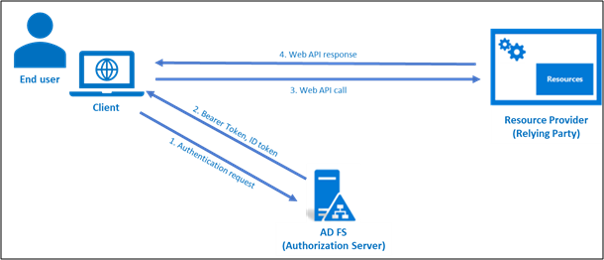
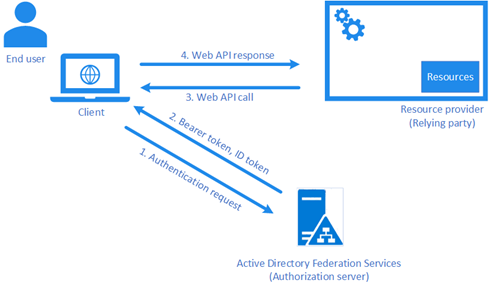
Windows Server freshness - User Story 90515.

Changed region(s): [[0.0, 0.0, 1.0, 1.0]]

diff --git a/WindowsServerDocs/identity/ad-fs/development/ad-fs-openid-connect-oauth-concepts.md b/WindowsServerDocs/identity/ad-fs/development/ad-fs-openid-connect-oauth-concepts.md
@@ -1,30 +1,30 @@
 ---
-title: AD FS OpenID Connect/OAuth Concepts
-description: Learn about AD FS modern authentication concepts.
+title: AD FS OpenID Connect/OAuth concepts
+description: Learn about Active Directory Federation Services modern authentication concepts.
 author: billmath
 ms.author: billmath
 manager: amycolannino
-ms.date: 05/23/2023
+ms.date: 05/24/2023
 ms.topic: article
 ms.custom: inhenkel
 ---
 
 # AD FS OpenID Connect/OAuth concepts
 
->Applies to AD FS 2016 and later
+>Applies to Active Directory Federation Services (AD FS) 2016 and later
 
 ## Modern authentication actors
 
 | Actor | Description |
 |-----|-----|
-| End User | The security principal (users, applications, services, and groups) who access the resource. |
+| End user | The security principal (users, applications, services, and groups) who access the resource. |
 | Client | Your web application, identified by its client ID. The client is usually the party that the end user interacts with, and the client requests tokens from the authorization server. |
-| Authorization Server/Identity Provider (IdP)| Your AD FS server. It's responsible for verifying the identity of security principals that exist in an organization's directory. It issues security tokens (bearer access token, ID token, and refresh token) upon successful authentication of those security principals. |
-| Resource Server/Resource Provider/Relying Party| Where the resource or data resides. It trusts the Authorization Server to securely authenticate and authorize the client and uses bearer access tokens to ensure that access to a resource can be granted. |
+| Authorization server/Identity provider (IdP)| Your AD FS server. It's responsible for verifying the identity of security principals that exist in an organization's directory. It issues security tokens (bearer access token, ID token, and refresh token) upon successful authentication of those security principals. |
+| Resource server/Resource provider/Relying party| Where the resource or data resides. It trusts the authorization server to securely authenticate and authorize the client and uses bearer access tokens to ensure that access to a resource can be granted. |
 
 The following diagram provides the most basic relationship between the actors:
 
-![Diagram of the Modern Authentication actors.](media/adfs-modern-auth-concepts/concept1.png)
+:::image type="content" source="media/adfs-modern-auth-concepts/concept1.png" alt-text="Diagram of the modern authentication actors." lightbox="media/adfs-modern-auth-concepts/concept1.png":::
 
 ## Application types
 
@@ -36,7 +36,7 @@ The following diagram provides the most basic relationship between the actors:
 
 ## Application group
 
-Every OAuth client (native or web app) or resource (web API) configured with AD FS needs to be associated with an application group. You can configure the clients in an application group to access the resources in the same group. An application group can have multiple clients and resources.
+You associate an application group with every native or web app OAuth client or web API resource that's configured with AD FS. Configure the clients in an application group to access the resources in the same group. An application group can have multiple clients and resources.
 
 ## Security tokens
 
@@ -49,14 +49,14 @@ Modern authentication uses following token types:
 ## Refresh token lifetimes
 
 - **Simple logon, no KMSI, device _not_ registered**: AD FS applies `SsoLifetime` and `DeviceUsageWindowInDays`. The first refresh token has `lifetime=DeviceUsageWindowInDays` or `SsoLifetime`, based on which field is lower but _no_ further refresh tokens are issued.
-- **KMSI logon, `EnableKmsi=true` in AD FS conf and `kmsi=true` passed as parameter**: AD FS applies `KmsiLifetimeMins` with `DeviceUsageWindowInDays`. The first refresh token has `lifetime=DeviceUsageWindowInDays` and each subsequent `grant_type=refresh_token` request gets a new refresh token. This process happens only with native clients or confidential client plus device auth.
-- **Registered devices, device auth**: AD FS uses `PersistentSsoLifetimeMins` and `DeviceUsageWindowInDays` similar to KMSI. Both native and confidential clients should get new refresh tokens, based on device auth.
+- **KMSI logon, `EnableKmsi=true` in AD FS conf and `kmsi=true` passed as parameter**: AD FS applies `KmsiLifetimeMins` with `DeviceUsageWindowInDays`. The first refresh token has `lifetime=DeviceUsageWindowInDays` and each subsequent `grant_type=refresh_token` request gets a new refresh token. This process happens only with native clients or confidential client plus device authentication.
+- **Registered devices, device auth**: AD FS uses `PersistentSsoLifetimeMins` and `DeviceUsageWindowInDays` similar to KMSI. Both native and confidential clients should get new refresh tokens, based on device authentication.
 
-To learn more, see [AD FS single sign on documentation](../operations/ad-fs-single-sign-on-settings.md).
+To learn more, see [AD FS single sign-on documentation](../operations/ad-fs-single-sign-on-settings.md).
 
 ## Scopes
 
-When you register a resource in AD FS, you can configure scopes to let AD FS perform specific actions. Along with configuring the scope, you must send the scope value in the request for AD FS to perform the action. For example, an administrator configures the scope as `openid` during resource registration and the application (client) must send the `scope = openid` in the auth request for AD FS to issue the ID Token. Following are details on the available scopes in AD FS:
+When you register a resource in AD FS, you can configure scopes to let AD FS perform specific actions. Along with configuring the scope, you must send the scope value in the request for AD FS to perform the action. For example, an administrator configures the scope as `openid` during resource registration and the application (client) must send the `scope = openid` in the authentication request for AD FS to issue the ID Token. Following are details on the available scopes in AD FS:
 
 - `aza` - If using [OAuth 2.0 protocol extensions for broker clients](/openspecs/windows_protocols/ms-oapxbc/2f7d8875-0383-4058-956d-2fb216b44706) and if the scope parameter contains the scope `aza`, the server issues a new primary refresh token. It sets the token in the `refresh_token` field of the response and sets the `refresh_token_expires_in field` to the lifetime of the new primary refresh token if one is enforced.
 - `openid` - Lets the application request use of the `openid` connect authentication protocol.
@@ -80,35 +80,39 @@ The claims present in any given security token are dependent upon the type of to
 
 ## High-level AD FS authentication flow
 
-![AD FS Authentication Flow](media/adfs-modern-auth-concepts/adfsauthflow.png)
+A diagram of the high-level flow follows.
 
-1. AD FS receives auth request from the client.
+:::image type="content" source="media/adfs-modern-auth-concepts/adfsauthflow.png" alt-text="Diagram of the AD FS authentication flow." lightbox="media/adfs-modern-auth-concepts/adfsauthflow.png":::
 
-1. AD FS validates the client ID in the auth request with the client ID obtained during client and resource registration in AD FS. If using confidential client, then AD FS also validates the client secret provided in the auth request. AD FS also validates the redirect URI of the Client.
+1. AD FS receives authentication request from the client.
 
-1. AD FS identifies the resource that the client wants to access through the resource parameter passed in the auth request. If using MSAL client library, then resource parameter isn't sent. Instead the resource url is sent as a part of the scope parameter: *scope = [resource url]/[scope values, for example, openid]*.
+1. AD FS validates the client ID in the authentication request with the client ID obtained during client and resource registration in AD FS. If using confidential client, then AD FS also validates the client secret provided in the authentication request. AD FS also validates the redirect URI of the Client.
 
-    If resource isn't passed using resource or scope parameter, AD FS uses a default resource urn:microsoft:userinfo whose policies (such as MFA, issuance, or authorization policy) can't be configured.
+1. AD FS identifies the resource that the client wants to access through the resource parameter that's passed in the authentication request. If you use the MSAL client library, the resource parameter isn't sent. Instead, the resource URL is sent as a part of the scope parameter: *scope = [resource url]/[scope values, for example, openid]*.
 
-1. Next AD FS validates whether client has the permissions to access the resource. AD FS also validates whether the scopes passed in the auth request match the scopes configured while registering the resource. If the client doesn't have the permissions, or the right scopes aren't sent in the auth request, the auth flow is terminated.
+    If the resource isn't passed using the resource or scope parameters, AD FS uses a default resource `urn:microsoft:userinfo` whose policies, such as, MFA, issuance, or authorization policy, can't be configured.
 
-1. Once permissions and scopes are validated, AD FS authenticates the user using the configured [authentication method](../operations/configure-authentication-policies.md).
+1. Next AD FS validates whether the client has permissions to access the resource. AD FS also validates whether the scopes passed in the authentication request match the scopes configured while registering the resource. If the client doesn't have the permissions, or the right scopes aren't sent in the authentication request, the authentication flow terminates.
 
-1. If [another authentication method](../operations/configure-additional-authentication-methods-for-ad-fs.md) is required as per the resource policy or the global auth policy, AD FS triggers the extra authentication.
+1. Once permissions and scopes validate, AD FS authenticates the user by using the configured [authentication method](../operations/configure-authentication-policies.md).
 
-1. AD FS uses [Azure AD Multi-Factor Authentication](../operations/configure-ad-fs-and-azure-mfa.md) or [third-party MFA](../operations/additional-authentication-methods-ad-fs.md) to perform authentication.
+1. If [another authentication method](../operations/configure-additional-authentication-methods-for-ad-fs.md) is required as per the resource policy or the global authentication policy, AD FS triggers the extra authentication.
+
+1. AD FS uses [Azure AD Multi-Factor Authentication](../operations/configure-ad-fs-and-azure-mfa.md) or [third-party MFA](../operations/additional-authentication-methods-ad-fs.md) to do the authentication.
 
 1. Once the user is authenticated, AD FS applies the [claim rules](../deployment/configuring-claim-rules.md). Claim rules determine the claims sent to the resource as a part of the security tokens. AD FS also applies the [access control polices](../operations/ad-fs-client-access-policies.md) that confirm the user meets the required conditions to access the resource.
 
-1. Next, AD FS generates the access and refreshes Tokens. AD FS also generates the ID token.
+1. Next, AD FS generates the access and refreshes the tokens. AD FS also generates the ID token.
 
-1. If you include the `scope = allatclaims` in the auth request, it customizes the [ID token](custom-id-tokens-in-ad-fs.md) to include claims in the access token based on the defined claim rules.
+1. AD FS receives the authentication request.
 
-1. Once the required tokens are generated and customized, AD FS responds to the client including the tokens. Only if the auth request includes `scope = openid`, the ID token is included in the response. The client can always get the ID token after authentication using the token endpoint.
+1. If you include the `scope = allatclaims` in the authentication request, it customizes the [ID token](custom-id-tokens-in-ad-fs.md) to include claims in the access token based on the defined claim rules.
+
+1. Once the required tokens are generated and customized, AD FS responds to the client and includes the tokens. The ID token is only included in the responsenly if the authentication request includes `scope = openid`. The client can always get the ID token after authentication by using the token endpoint.
 
 ## Types of libraries
 
-Two types of libraries are used with AD FS:
+Use two types of libraries with AD FS:
 
 - **Client libraries**: Native clients and server apps use client libraries to get access tokens for calling a resource such as a web API. Microsoft Authentication Library (MSAL) is the latest and recommended client library when using AD FS 2019.
 
@@ -116,7 +120,7 @@ Two types of libraries are used with AD FS:
 
 ## Customize ID token (extra claims in ID token)
 
-In certain scenarios, it's possible that the web app (client) needs extra claims in an ID token to help in the functionality. Set up extra claims in an ID token by using one of the following options:
+In certain scenarios, it's possible that the web app, the client, needs extra claims in an ID token to help in the functionality. Set up extra claims in an ID token by using one of the following options:
 
 **Option 1:** Use this option when you have a public client and the web app doesn't have a resource that it's trying to access. This option requires:
 
